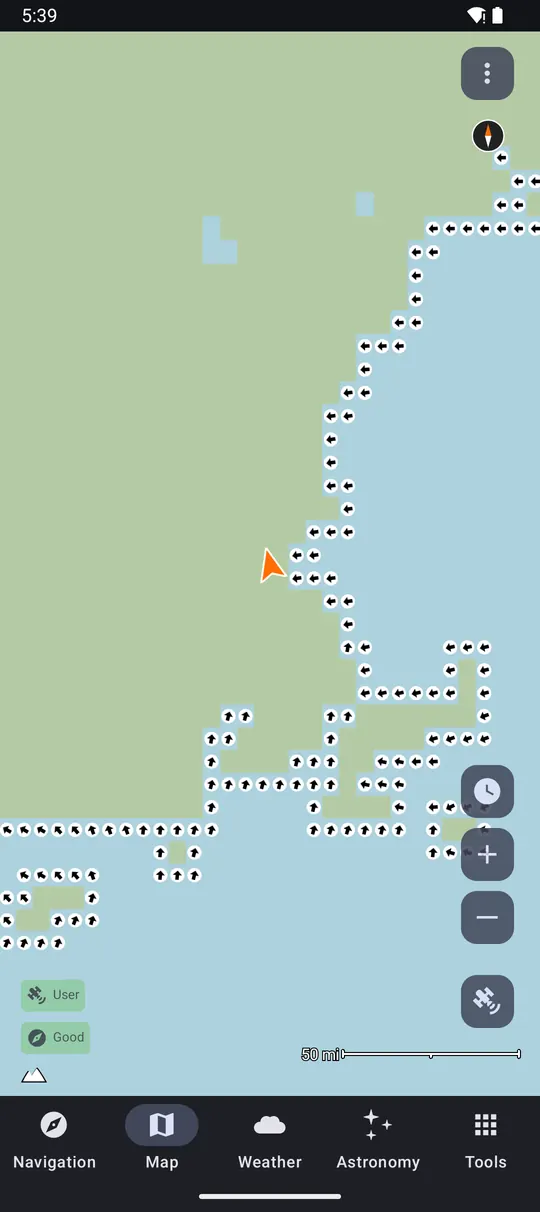
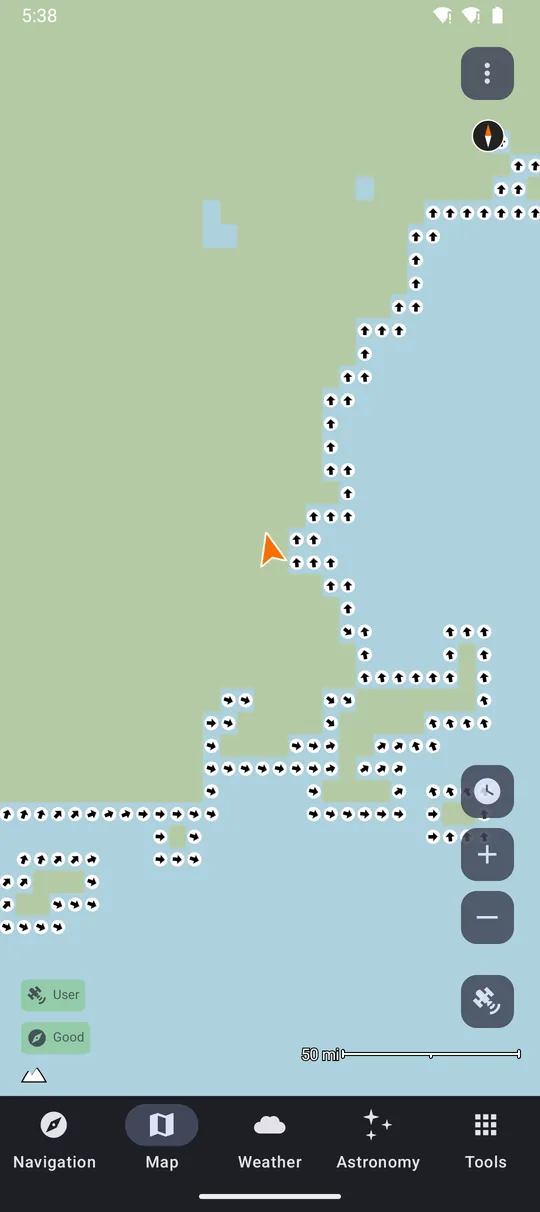
site: update screenshots and header

diff --git a/site/src/assets/css/styles.css b/site/src/assets/css/styles.css
@@ -391,7 +391,8 @@ body:has(main > .hero:first-child) .site-header {
   color: var(--text-on-sky);
 }
 
-/* The hero already shows the download links */
+/* The hero already shows the name and download links, so only the logo stays */
+body:has(main > .hero:first-child) .site-header .brand span,
 body:has(main > .hero:first-child) .nav-cta {
   display: none;
 }

diff --git a/site/src/_includes/header.html b/site/src/_includes/header.html
@@ -32,7 +32,7 @@
   <a class="skip-link" href="#main">Skip to content</a>
   <header class="site-header">
     <div class="wrap header-inner">
-      <a href="/" class="brand">
+      <a href="/" class="brand" aria-label="{{ title }} home">
         <img src="/assets/images/logo.png" alt="" width="28" height="28" />
         <span>{{ title }}</span>
       </a>
